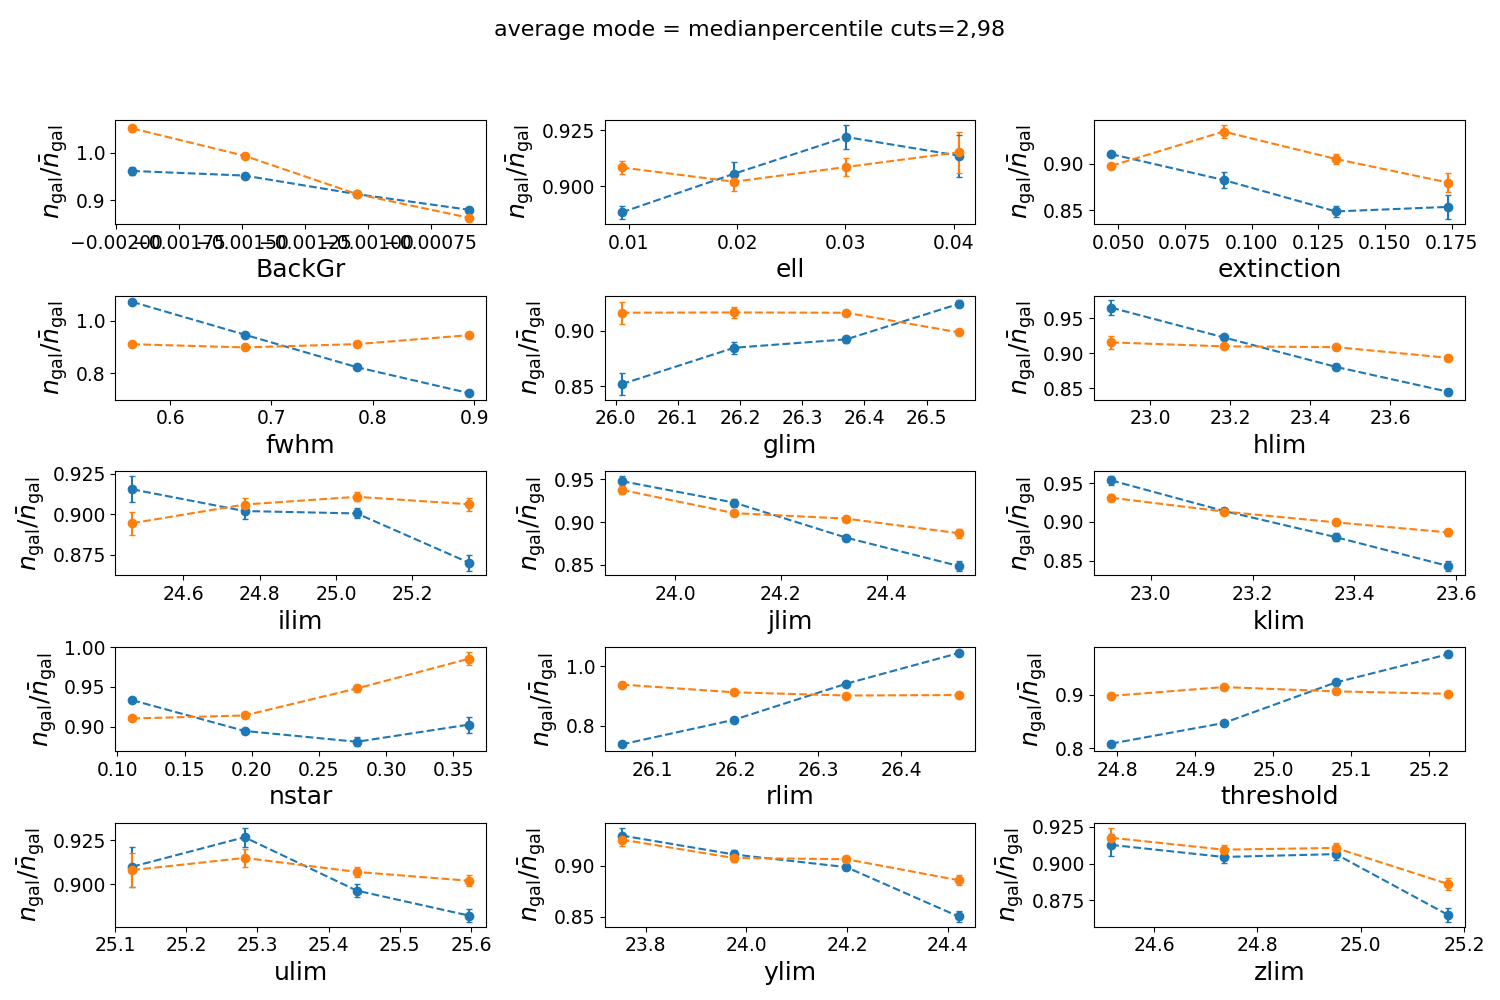
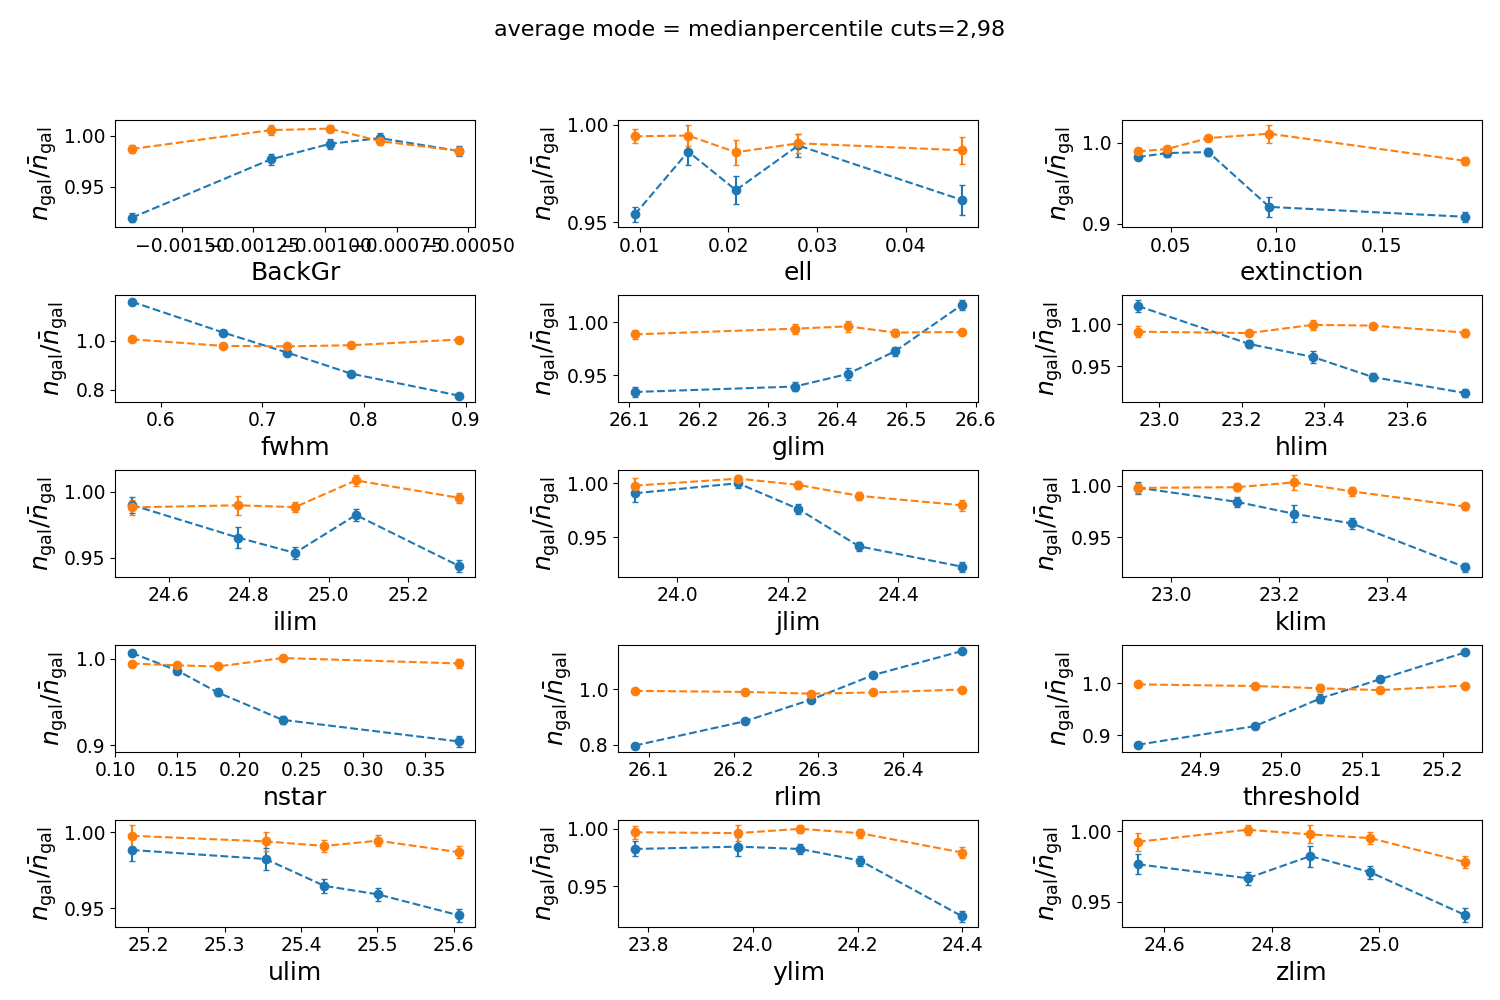
zbin plots and new bins

diff --git a/systematic_maps/explore_model.py b/systematic_maps/explore_model.py
@@ -67,14 +67,17 @@ def plot_hist_single(data, bins=20, lw=2, log=False, ylim = None, cumulative = F
 	plt.ylabel(y_label, fontsize=18)
 	
 	plt.tight_layout()
-	plt.show()
+	
 	if figname:
 		f.savefig(graph_dir+'/model_results/'+figname)
+		
+	else:
+		plt.show()
 	
 	return None
 	
-plot_hist_single(linreg_pred, bins=20, lw=2, log=True, ylim = (10**0, 10**5), x_label=r"$Predicted\ n_{\rm gal}/\bar{n}_{\rm gal}$",
-	y_label = 'Count', figname='predicted_ngal_hist.png')	
+#plot_hist_single(linreg_pred, bins=20, lw=2, log=True, ylim = (10**0, 10**5), x_label=r"$Predicted\ n_{\rm gal}/\bar{n}_{\rm gal}$",
+#	y_label = 'Count', figname='predicted_ngal_hist.png')	
 
 
 def plot_2dpred_5(X, Y, cols, linreg_pred, figname=None):
@@ -165,7 +168,12 @@ def plot_ngal(ngal_pred, ngal_norm, pixel_data, pixel_fraction, nbins, percut, a
 			mask = (x>percs[0])&(x<percs[1])
 
 			# Define the bins at which the mean of y is computed
-			bins = np.linspace(x[mask].min(), x[mask].max(), nbins)
+			#bins = np.linspace(x[mask].min(), x[mask].max(), nbins)
+			
+			syst_cumsum = np.cumsum(np.sort(x) + np.abs(x.min()))
+			syst_cumsum /= 1.*syst_cumsum.max()
+			fr = np.linspace(percut[0], percut[1], nbins+1) * 0.01
+			bins = np.interp(fr, syst_cumsum, np.sort(x))
 
 			# Compute the mean of y in each bin
 			bin_means, bin_edges, binnumber = stats.binned_statistic(x[mask],
@@ -198,16 +206,16 @@ def plot_ngal(ngal_pred, ngal_norm, pixel_data, pixel_fraction, nbins, percut, a
 										bins = bins)
 			
 			# Compute the normalization factors
-			nghat_new = np.sum(y[mask]/y_t[mask])*1./np.sum(z[mask])
-			nghat_old = np.sum(y[mask])*1./np.sum(z[mask])
+			#nghat_new = np.sum(y[mask]/y_t[mask])*1./np.sum(z[mask])
+			#nghat_old = np.sum(y[mask])*1./np.sum(z[mask])
 			
 			#Modify the means and the errorbars of the raw measurements
-			bin_means = bin_means/nghat_old/bin_fmeans
-			bin_errors = bin_errors/nghat_old/bin_fmeans
+			#bin_means = bin_means/bin_fmeans
+			#bin_errors = bin_errors/bin_fmeans
 			
 			#Modify the means and the errorbars of the corrected measurements
-			bin_means_corr = bin_means_corr/nghat_new/bin_fmeans
-			bin_errors_corr = bin_errors_corr/nghat_new/bin_fmeans
+			#bin_means_corr = bin_means_corr/bin_fmeans
+			#bin_errors_corr = bin_errors_corr/bin_fmeans
 			
 			# Compute the bin centers for plotting
 			bin_centers = .5*(bin_edges[1:]+bin_edges[:-1])
@@ -234,11 +242,11 @@ def plot_ngal(ngal_pred, ngal_norm, pixel_data, pixel_fraction, nbins, percut, a
 		plt.show()
 	
 	
-#plot_ngal(linreg_pred, Y, X, Z, nbins=5, percut = [2, 98], average_mode = "mean", title='sys_ngal_corr')
-plot_ngal(linreg_pred, Y, X, Z, nbins=5, percut = [2, 98], average_mode = "mean")
+plot_ngal(linreg_pred, Y, X, Z, nbins=5, percut = [2, 98], average_mode = "mean", title='sys_ngal_corr')
+#plot_ngal(linreg_pred, Y, X, Z, nbins=5, percut = [2, 98], average_mode = "mean")
 
 #-- Plots for the z-bins --
-'''
+
 with open(data_dir+'/zbins.pickle', 'rb') as handle:
 	zbins = pickle.load(handle)
 	
@@ -274,6 +282,5 @@ for k in zbins.keys():
 	
 	fig_title = 'sys_ngal_corr_'+zbin_min+'_'+zbin_max
 	plot_ngal(linreg_pred_zbin, Y_zbin, X_zbin, Z_zbin, nbins=5, percut = [2,98], title=fig_title)
-	
 	#plot_2dpred_5(X_zbin, Y_zbin, use_cols[0:5], linreg_pred_zbin)
-'''
+

diff --git a/systematic_maps/preprocess_new.py b/systematic_maps/preprocess_new.py
@@ -57,10 +57,6 @@ masked_ngal = ngal_fits[pixel_mask] #Mask ngal
 print('Shape of masked ngal array: {}'.format(masked_ngal.shape))
 print('Max ngal in masked_ngal: {}'.format(np.max(masked_ngal)))
 
-#Save masked ngal
-with open(data_dir+'/masked_ngal.pickle', 'wb') as handle:
-	pickle.dump(masked_ngal, handle, protocol=pickle.HIGHEST_PROTOCOL)
-
 masked_dataset = {}
 for key, value in dataset_dict.items(): #Mask all systematic maps
 
@@ -112,7 +108,7 @@ new_ngal_norm = np.delete(ngal_norm, rows_containing_nans[rows_containing_nans].
 new_masked_ngal = np.delete(masked_ngal, rows_containing_nans[rows_containing_nans].index)
 
 #Save masked ngal
-with open(data_dir+'/masked_ngal.pickle', 'wb') as handle:
+with open(data_dir+'/ngal_maps/masked_ngal.pickle', 'wb') as handle:
 	pickle.dump(new_masked_ngal, handle, protocol=pickle.HIGHEST_PROTOCOL)
 
 print('NUMBER OF ZEROS:')
@@ -124,8 +120,9 @@ print(len(new_ngal_norm))
 
 print('Max ngal in ngal_norm: {}'.format(np.max(new_ngal_norm)))
 
-
 dataset_frame_filtered['ngal_norm'] = new_ngal_norm
+
+print('NGAL NORM: {}'.format(dataset_frame_filtered.ngal_norm.values[0:10]))
 
 #Save the data
 with open(data_dir+'/pixel_data.pickle', 'wb') as handle:
